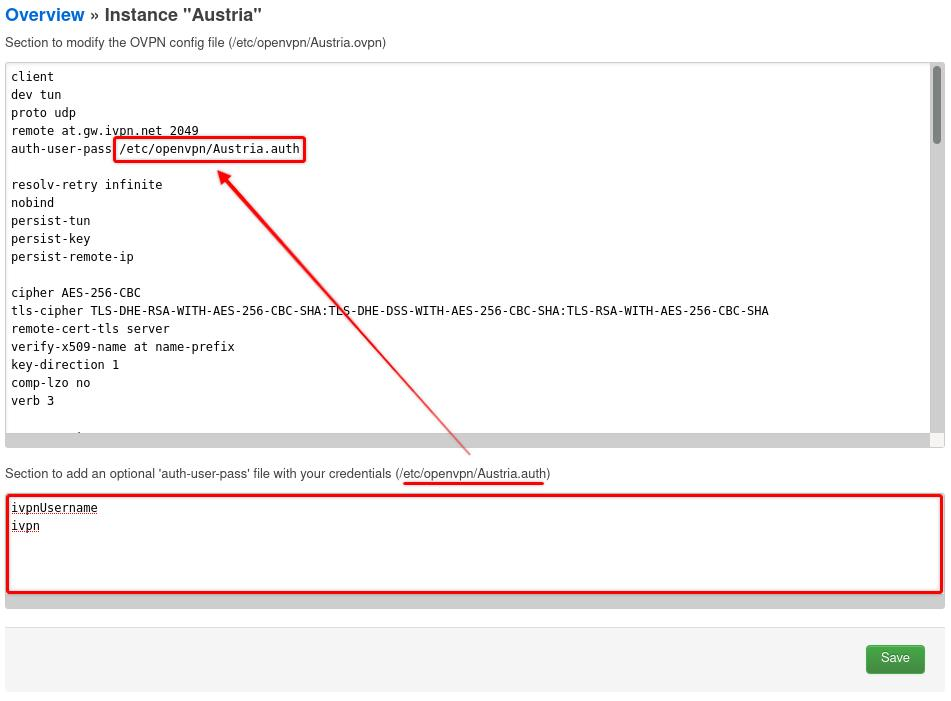
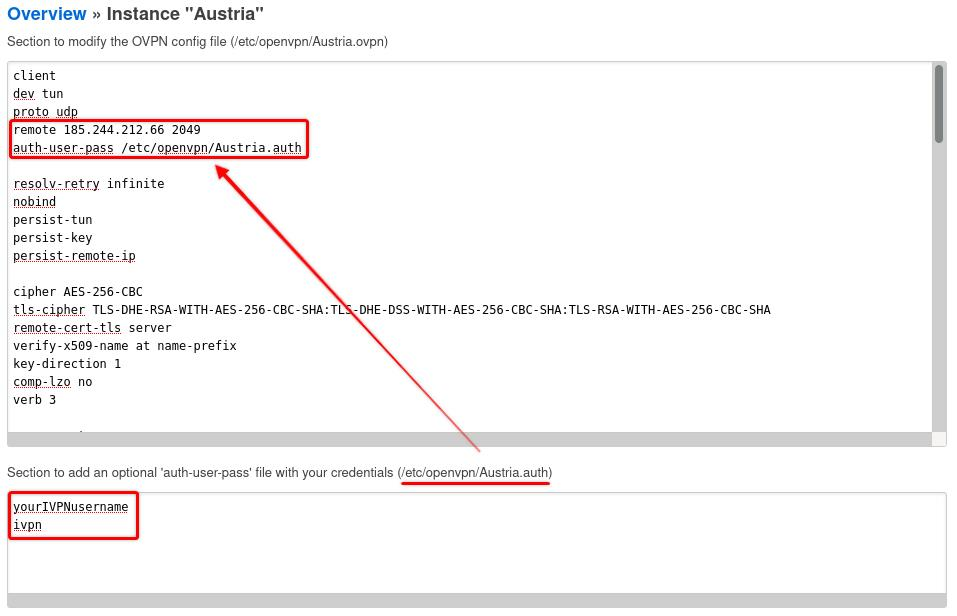
WireGuard OpenWrt setup guide

Changed region(s): [[0.0, 0.0, 1.0, 0.987]]

diff --git a/src/content/pages/setup/router/openwrt-wireguard.md b/src/content/pages/setup/router/openwrt-wireguard.md
@@ -1,0 +1,123 @@
+---
+title: WireGuard Setup guide for OpenWrt
+listItem: OpenWrt WireGuard
+url: /setup/router/openwrt-wireguard/
+section: Router Setup
+platform: router
+layout: setup-article
+weight: 21
+---
+## OpenWrt WireGuard Setup Guide
+
+<div markdown="1" class="notice notice--warning">
+This guide was produced using OpenWrt v.19.07.2
+</div>
+
+### Install required packages
+
+1. In your router's webUI, navigate to `System` - `Software`, click `Update lists`
+
+2. In the **Filter** field, type **WireGuard**, locate and install **wireguard** & **luci-app-wireguard** packages<br></br>
+![](/images-static/uploads/install-wireguard-openwrt-01.png)
+
+3. Restart your router
+
+### Generate WireGuard keypair
+
+1. SSH into your router as 'root' ([OpenWrt Wiki](https://openwrt.org/docs/guide-quick-start/sshadministration)):<br></br>
+    ># ssh root@192.168.1.1
+2. Generate WireGuard keys:<br></br>
+    ># wg genkey | tee privatekey | wg pubkey > publickey
+    ># chmod 600 privatekey
+3. Note your Private & Public keys, you will need them later:<br></br>
+    ># cat privatekey
+    ># cat publickey
+
+### Obtaine WireGuard IP address
+
+1. Log into the [Client Area](/account/login/#id)
+2. Navigate to `WireGuard` tab and click the `Add a new key` button<br></br>
+![](/images-static/uploads/install-wireguard-openwrt-02.png)
+3. Copy and paste the **Public key** obtained previously, give it any name, then click the `Add key` button and note the assigned IP address<br></br>
+![](/images-static/uploads/install-wireguard-openwrt-03.png)
+
+### Create an Interface
+
+1. Navigate to `Network` - `Interface`, 
+2. Click the `Add new interface...` button and enter the following configuration:
+
+    * Name - give it any name, e.g. **ivpnAustria**
+    * Protocol - **WireGuard VPN**
+
+3. `Create interface`
+
+4. In the `General Settings` tab:
+
+    * Bring up on boot - **Checked**
+    * Private Key - copy and paste the generated previously **Private key**
+    * IP Address - enter the **WireGuard IP Address** obtained in the Client Area ending with **/32**, e.g. **172.27.123.169/32**<br></br>
+![](/images-static/uploads/install-wireguard-openwrt-04.png)
+
+5. In the `Advanced Settings` tab, set `MTU` to **1412**
+
+6. In the `Peers` tab:
+
+    * Description - give it any name, e.g. **Austria**
+    * Public Key - the **IVPN WireGuard server public key**, available on the [IVPN server status page](https://www.ivpn.net/status)
+    * Allowed IPs - **0.0.0.0/0**
+    * Route Allowed IPs - **Checked**
+    * Endpoint Host - an **IP address of IVPN WireGuard server**<br></br>
+    Hostnames are available on the [IVPN server status page](https://www.ivpn.net/status). To turn the hostname of the server into an IP address use, e.g. the `nslookup at1.wg.ivpn.net` command in your computer's terminal:
+	> $ nslookup at1.wg.ivpn.net  
+	> ...  
+	> Name:   at1.wg.ivpn.net  
+	> Address: 185.244.212.69 
+    * Endpoint Port - **53**, **2049**, **2050**, **30587**, **41893**, **48574**, or **58237**. All ports are equally secure
+    * Persistent Keep Alive - **25** seconds is reasonable<br></br>
+![](/images-static/uploads/install-wireguard-openwrt-05.png)
+
+7. Click `Save` & `Save & Apply`
+
+### Add a Firewall zone
+
+1. Navigate to `Network` - `Firewall`
+
+2. Click the `Add` button and enter the following configuration:
+
+    * Name - Give it any name, e.g. **ivpn_fw**
+    * Input - **Reject**
+    * Output - **Accept**
+    * Forward - **Reject**
+    * Masquerading - **Checked**
+    * MSS clamping - **Checked**
+    * Covered networks - select the previously created VPN tunnel interface, e.g. **ivpnAustria**
+    * Allow forward to destination zones - **Unspecified**
+    * Allow forward from source zones - **lan**<br></br>
+![](/images-static/uploads/install-wireguard-openwrt-06.png)<br></br>
+
+3. Click `Save` & `Save & Apply`
+
+### Configuring a Kill-switch (optional)
+
+To ensure the traffic on your LAN devices travels strictly via the VPN tunnel and to prevent any possible leaks if the router disconnects from the VPN server for any reason, edit your lan firewall zone and remove **WAN** from the `Allow forward to destination zones` field, then click `Save` & `Save & Apply` buttons.<br></br>
+![](/images-static/uploads/install-wireguard-openwrt-07.png)
+
+### DNS
+
+1. Navigate to `Network` - `Interfaces`
+
+2. Click on the `Edit` button next to the **WAN** interface
+
+3. In the `Advanced Settings` tab, uncheck the `User DNS servers advertised by peer` and specify one of the following DNS servers in the `Use custom DNS servers` field:
+
+    - *172.16.0.1* = regular DNS with no blocking
+    - *10.0.254.2* = standard AntiTracker to block advertising and malware domains
+    - *10.0.254.3* = Hardcore Mode AntiTracker to also block Google and Facebook<br></br>
+![](/images-static/uploads/install-wireguard-openwrt-08.png)
+
+3. Click `Save` & `Save & Apply` buttons.
+
+### Final Steps
+
+1. A device reboot is not required, though it may be useful to confirm that everything behaves as expected.
+2. Run a leak test at [https://www.dnsleaktest.com](https://www.dnsleaktest.com) via one of the internal network clients attached to your OpenWRT router.

diff --git a/src/content/pages/setup/router/openwrt.md b/src/content/pages/setup/router/openwrt.md
@@ -13,19 +13,19 @@ weight: 20
 This guide was produced using OpenWrt v.19.07.2
 </div>
 
-### Installing required packages
+### Install required packages
 
 1. In your router's webUI, navigate to `System` - `Software`, click `Update lists`
 
-2. In the **Filter** field, type **OpenVPN**, locate and install **openvpn-openssl** & **luci-app-openvpn** packages
-
-<div markdown="1" class="notice notice--info">
-If you receive an error while attempting to install the 'luci-app-openvpn' package, check the 'Overwrite files from other package(s)' checkbox
-</div>
-
+2. In the **Filter** field, type **OpenVPN**, locate and install **openvpn-openssl** & **luci-app-openvpn** packages<br></br>
 ![](/images-static/uploads/install-openvpn-openwrt-01.png)
+    
+3. Restart your router
+    <div markdown="1" class="notice notice--info">
+    If you receive an error while attempting to install the 'luci-app-openvpn' package, check the 'Overwrite files from other package(s)' checkbox
+    </div>
 
-### Creating a VPN profile
+### Create a VPN profile
 
 1. Download and extract our [UDP](/releases/config/ivpn-openvpn-config.zip) or [TCP](/releases/config/ivpn-openvpn-config-tcp.zip) config files to your computer
 
@@ -33,14 +33,21 @@ If you receive an error while attempting to install the 'luci-app-openvpn' packa
 
 3. Under the **OVPN configuration file upload** section, `Browse` for the .ovpn config file with the VPN server you would like to connect to, give it any name, then click `Upload`
 
-4. Click on the `Edit` button next to the created OpenVPN instance and enter your IVPN username and any password (e.g. ivpn) in 2 separate lines in the text box at the bottom
+4. Click the `Edit` button next to the created OpenVPN instance and enter your IVPN username and any password (e.g. ivpn) in 2 separate lines in the text box at the bottom
 
 5. Append the credentials file path to the **auth-user-pass** line in the first text box. The full path is visible just above the second text box, e.g. - `auth-user-pass /etc/openvpn/Austria.auth`. Click `Save`<br></br>
 ![](/images-static/uploads/install-openvpn-openwrt-02.png)
 
-6. Return to main `OpenVPN` section, check the `Enabled` checkbox and click on the `Save & Apply` button. 
+6. Replace the hostname of the VPN server in line 4 with its IP address - `remote 185.244.212.66 2049`.<br></br>
+To turn the hostname of the server into an IP address use, e.g. the `nslookup at.gw.ivpn.net` command in your computer's terminal:
+	> $ nslookup at.gw.ivpn.net  
+	> ...  
+	> Name:   at.gw.ivpn.net  
+	> Address: 185.244.212.66
 
-### Creating a VPN Interface
+7. Click `Save`. Return to main `OpenVPN` section, check the `Enabled` checkbox and click on the `Save & Apply` button. 
+
+### Create an Interface
 
 1. Navigate to `Network` - `Interfaces`
 
@@ -55,11 +62,11 @@ If you receive an error while attempting to install the 'luci-app-openvpn' packa
 
 4. In the interface properties window, ensure that **Bring up on boot** is checked, then click `Save` & `Save & Apply` buttons.
 
-### Adding a Firewall zone
+### Add a Firewall zone
 
 1. Navigate to `Network` - `Firewall`
 
-2. Click on the `Add` button and enter the following configuration:
+2. Click the `Add` button and enter the following configuration:
 
     * Name - Give it any name, e.g. **ivpn_fw**
     * Input - **Reject**
@@ -70,20 +77,21 @@ If you receive an error while attempting to install the 'luci-app-openvpn' packa
     * Covered networks - select the previously created VPN tunnel interface, e.g. **ivpnAustria**
     * Allow forward to destination zones - **Unspecified**
     * Allow forward from source zones - **lan**<br></br>
-![](/images-static/uploads/install-openvpn-openwrt-04.png)
-
+![](/images-static/uploads/install-openvpn-openwrt-04.png)<br></br>
 3. Click `Save` & `Save & Apply` buttons.
 
-### Configuring a Kill-switch (optional)
+### Configure a Kill-switch (optional)
 
-To ensure the traffic on your LAN devices travels strictly via the VPN tunnel and prevent any possible leaks if the router disconnects from the VPN server for any reason, edit your lan firewall zone and remove **WAN** from the `Allow forward to destination zones` field, then click `Save` & `Save & Apply` buttons.<br></br>
+To ensure the traffic on your LAN devices travels strictly via the VPN tunnel and to prevent any possible leaks if the router disconnects from the VPN server for any reason, edit your lan firewall zone and remove **WAN** from the `Allow forward to destination zones` field, then click `Save` & `Save & Apply` buttons.<br></br>
 ![](/images-static/uploads/install-openvpn-openwrt-05.png)
 
 ### DNS
 
 1. Navigate to `Network` - `Interfaces`
 
-2. Click on the `Edit` button next to the **LAN** interface and specify one of the following DNS servers:
+2. Click on the `Edit` button next to the **WAN** interface
+
+3. In the `Advanced Settings` tab, uncheck the `User DNS servers advertised by peer` and specify one of the following DNS servers in the `Use custom DNS servers` field:
 
     - *10.0.254.1* = regular DNS with no blocking
     - *10.0.254.2* = standard AntiTracker to block advertising and malware domains
